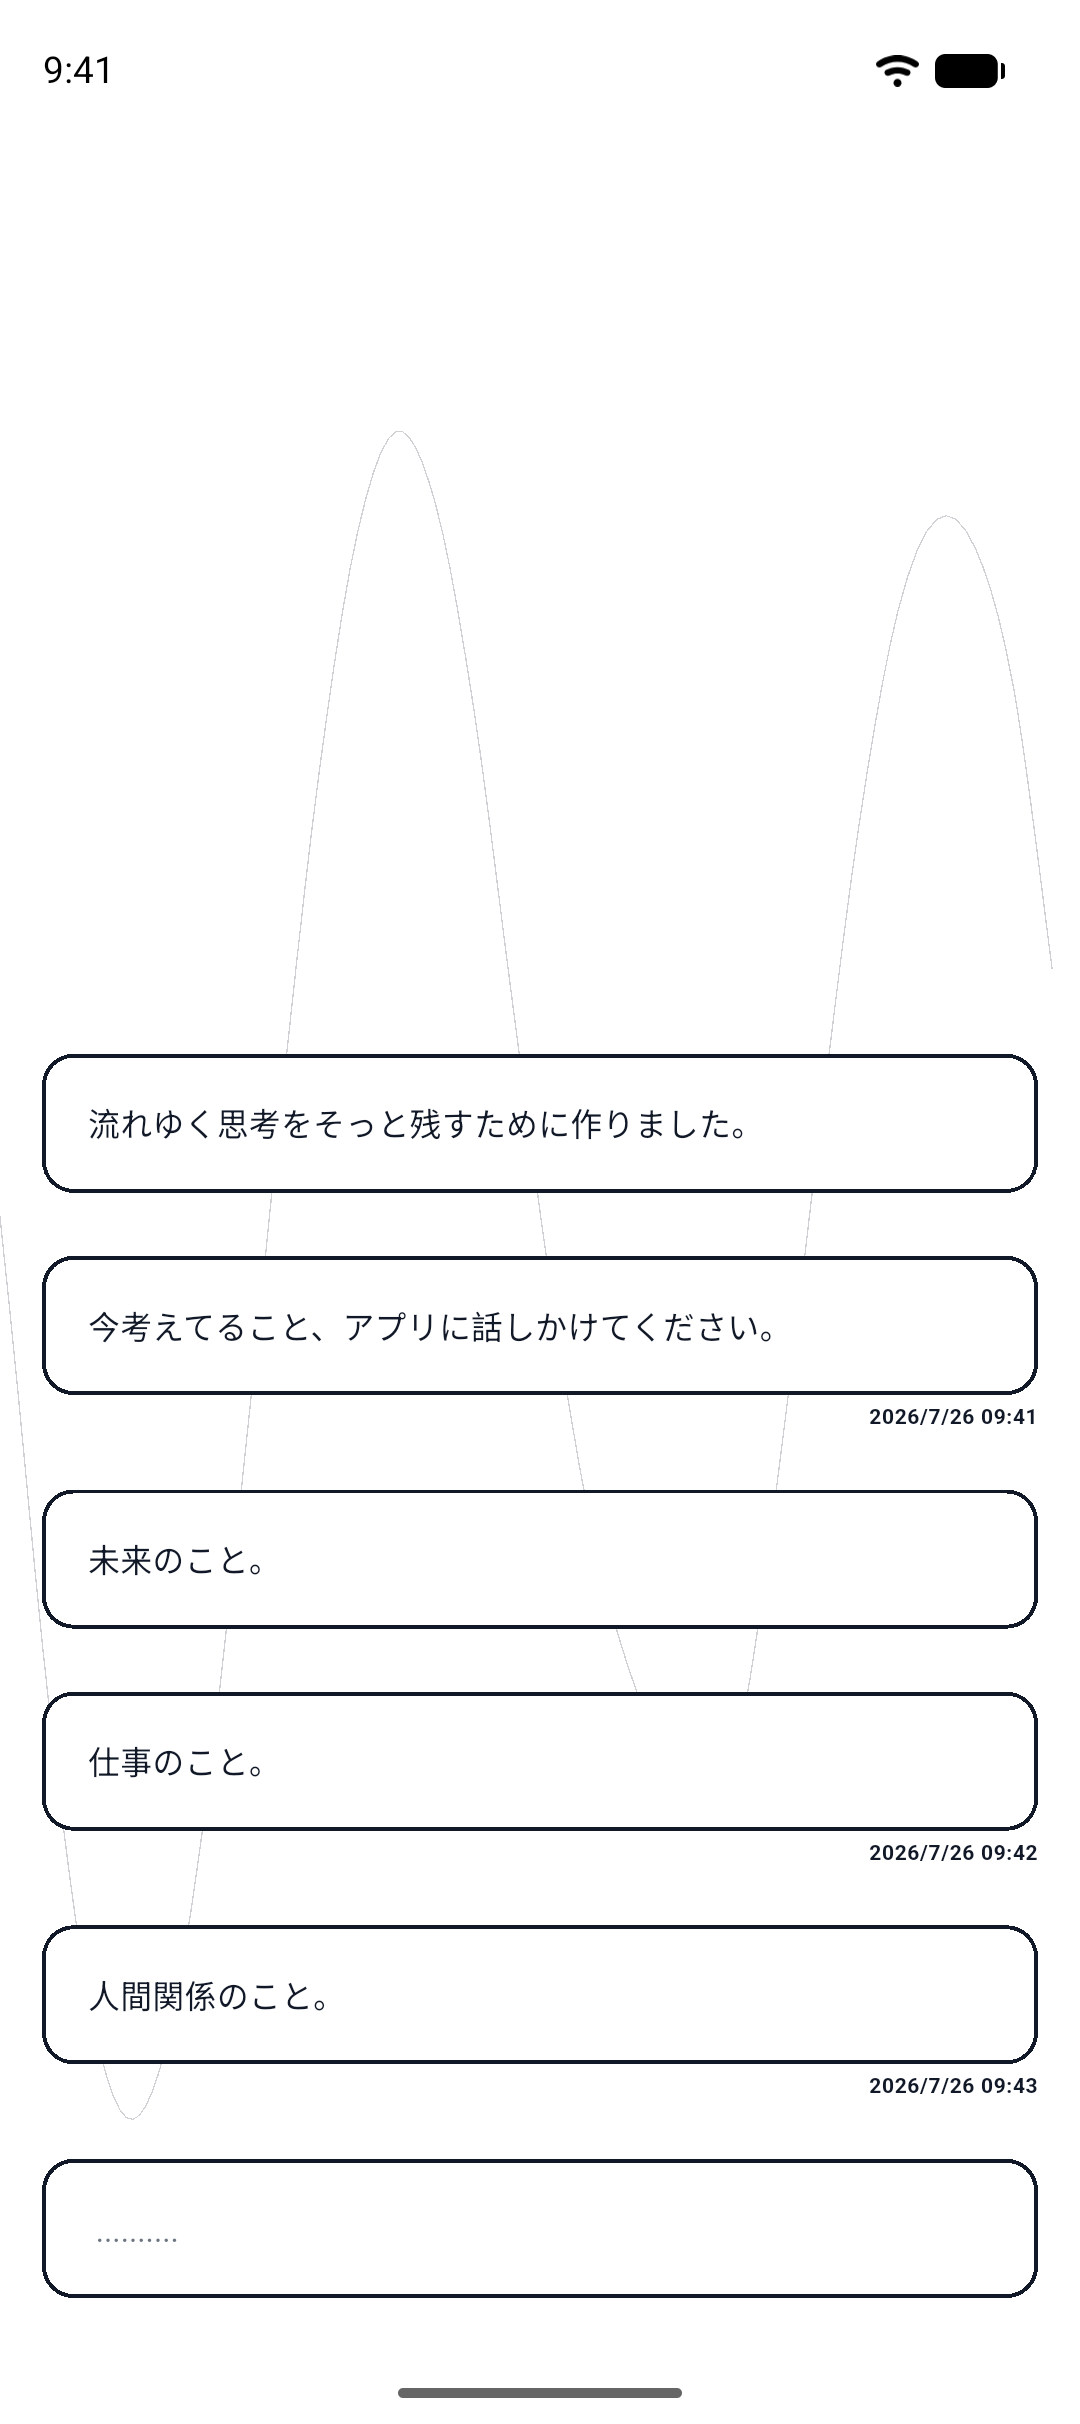
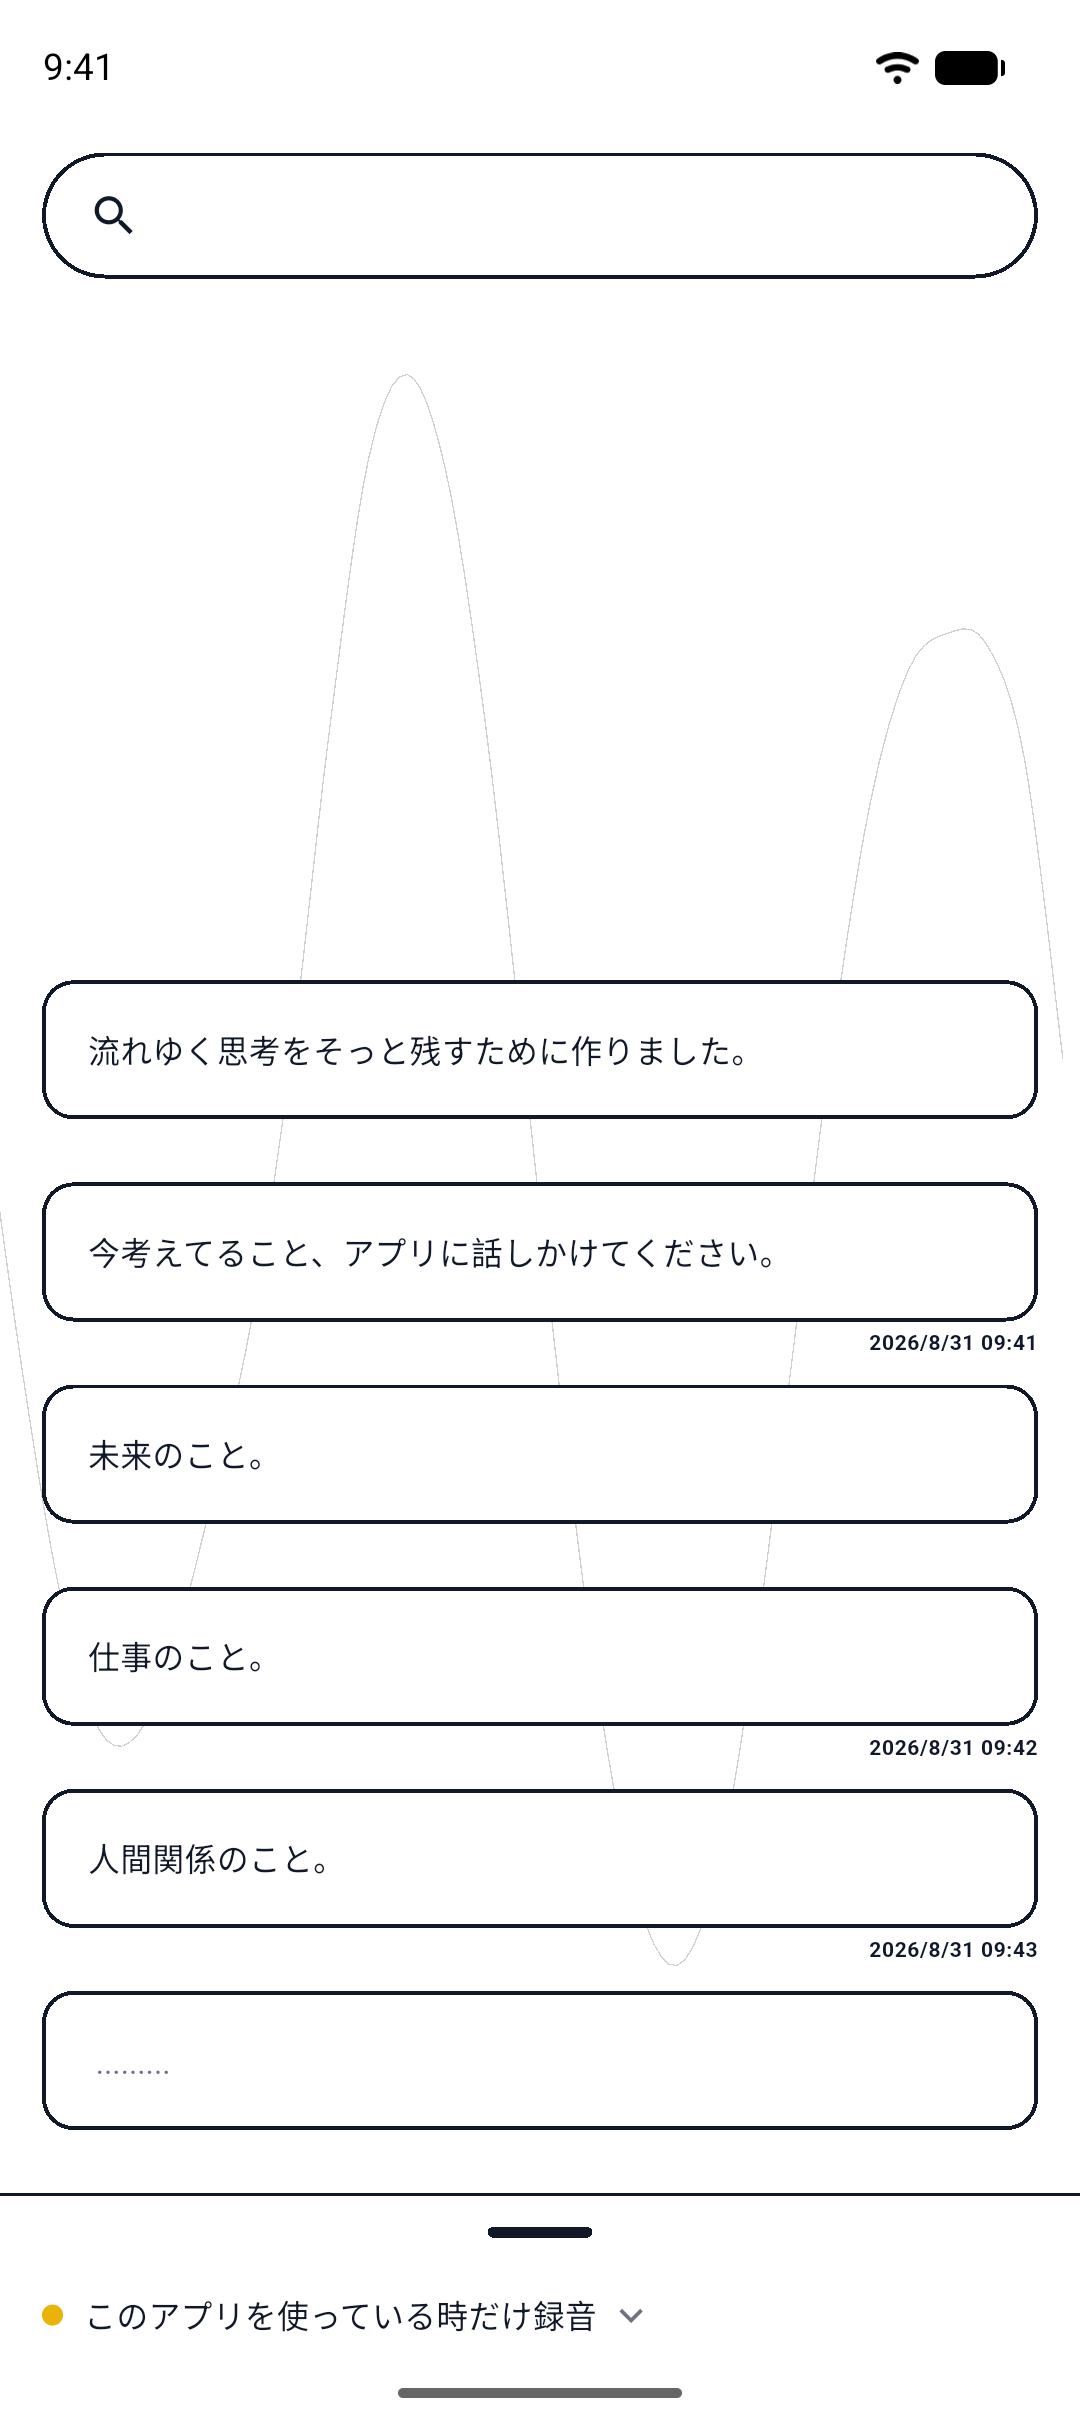
Prepare the store submission texts and retake the store screenshots with the current UI

diff --git a/notes/release/store_submission/background_recording_submission.md b/notes/release/store_submission/background_recording_submission.md
@@ -1,0 +1,136 @@
+# バックグラウンド録音のストア提出資料
+
+バックグラウンド録音を含むアプリとして提出するときに、両ストアの管理画面へ入力する内容をまとめた資料。文面はそのまま貼れる形にしてある（英文が正、日本語は対訳）。
+
+計画上の位置づけは `notes/background_recording/impl/phase3/step08_store_submission_materials.md`。
+
+---
+
+## Google Play — フォアグラウンドサービス申告
+
+場所: Play Console → App content（アプリのコンテンツ）→ Foreground service permissions。
+
+マージ後のマニフェストには FGS タイプが**2つ**入っているため、申告も2つ必要になる。
+
+| タイプ | 由来 |
+|---|---|
+| microphone | momeo 本体（flutter_foreground_task 経由） |
+| dataSync | Play Asset Delivery（モデル配布用の Google のライブラリが持ち込む `ExtractionForegroundService`） |
+
+### microphone の申告
+
+- ユースケース: 音声録音（voice recording）系の定義済み項目を選ぶ
+- 機能の説明:
+
+```text
+momeo is a voice memo app that turns spoken thoughts into text notes using fully on-device speech recognition. When the user explicitly enables "keep recording while using other apps" (off by default, guarded by a consent dialog), the app runs a microphone foreground service so it can keep capturing and transcribing the user's voice while they use other apps or the screen is off. A persistent notification with a stop button is shown the whole time, and audio never leaves the device.
+```
+
+（対訳: momeo は、話した思考をオンデバイス音声認識でテキストメモにする音声メモアプリ。ユーザーが「ほかのアプリを使っていても録音」を明示的に有効にしたとき（初期値は無効・同意ダイアログあり）だけ microphone タイプのフォアグラウンドサービスを動かし、他アプリの使用中や画面消灯中も録音と文字化を続ける。実行中は停止ボタン付きの常駐通知を出し続け、音声は端末の外に出ない。）
+
+- 中断された場合のユーザーへの影響:
+
+```text
+If the system defers or interrupts the service, speech spoken during that time is not captured, so those voice memos are permanently lost. Uninterrupted capture is the core value of the feature the user opted into.
+```
+
+（対訳: サービスが中断されると、その間の発話は取り込まれず、メモとして永久に失われる。途切れない取り込みがこの機能の価値そのもの。）
+
+- 実演動画: リンクを必ず添える（YouTube 限定公開で可）。**ユーザーが機能をトリガーする手順**が映っている必要があるので、次のシーン構成で撮る。
+
+```text
+1. リスニング画面 → 下端の帯をタップして選択肢を出す
+2. 「ほかのアプリを使っていても録音」をタップ → 開示ダイアログ → 有効にする
+3. ホームへ戻る → 通知シェードを開き、常駐通知（停止ボタン付き）を見せる
+4. 他のアプリの画面のまま、短い一文を話す
+5. momeo に戻る → 話した内容がメモとして増えている
+```
+
+- 動画リンク（アップ後にここへ記録する）: ＿＿＿＿＿＿＿＿
+
+### dataSync の申告
+
+- 機能の説明:
+
+```text
+This foreground service comes from the Google Play Asset Delivery library (com.google.android.play.core.assetpacks.ExtractionForegroundService). The app delivers its on-device speech-recognition model (~625 MB) as a fast-follow asset pack, and the library uses this service to extract the pack after download. The app's own code never starts a dataSync foreground service.
+```
+
+（対訳: このサービスは Play Asset Delivery のライブラリが持ち込むもの。momeo はオンデバイス音声認識モデル（約625MB）を fast-follow のアセットパックで配布しており、ダウンロード後の展開にライブラリがこのサービスを使う。アプリ自身のコードが dataSync のサービスを起動することはない。）
+
+- 中断された場合のユーザーへの影響:
+
+```text
+If extraction is interrupted, the speech-recognition model is not ready, and the app cannot transcribe until extraction completes on a later launch.
+```
+
+- 実演動画: 初回起動で準備ゲート（モデルの準備画面）が進む様子を撮る。
+
+---
+
+## Google Play — Data safety（データの安全性）
+
+- 「アプリは必須のユーザーデータタイプを収集または共有しますか？」→ **いいえ**
+- 根拠: Play の定義で「収集」は端末外への送信を指す。momeo はマイク音声・文字起こし・メモをすべて端末内で処理・保存し、送信しない。アカウント登録なし・解析 SDK なし・広告 SDK なし。`INTERNET` 権限の用途は Google Play からのモデル取得（Play Asset Delivery）のみで、ユーザーデータの送信はない。
+
+---
+
+## App Store — 審査メモ（App Review Information → Notes）
+
+`audio` バックグラウンドモードを「再生用」とみなされてリジェクトされた事例への先回りとして、提出のたびに次を貼る。
+
+```text
+momeo is a voice-first memo app. All speech recognition runs entirely on device (sherpa-onnx with a bundled model). Audio and transcripts never leave the device, and the app makes no network requests for recognition.
+
+About UIBackgroundModes "audio": the app uses it only to continue RECORDING (not playback) when the user explicitly turns on "keep recording while using other apps". This option is OFF by default, requires an explicit consent dialog, and can be turned off at any time from the same screen. While recording in the background, iOS shows the orange microphone indicator, and the app additionally shows a Live Activity on the Lock Screen with the app name and the number of memos captured.
+
+How to verify:
+1. Launch the app and grant microphone access.
+2. Tap the status band at the bottom of the listening screen, then choose the right-hand card ("ほかのアプリを使っていても録音") and confirm the consent dialog.
+3. Lock the screen and speak a short sentence.
+4. Wake the screen: a Live Activity "momeo — 音声を認識しています" is visible on the Lock Screen.
+5. Unlock and return to the app: the sentence appears as a new text memo.
+6. Switch back to the left-hand card: backgrounding the app now stops recording (the default behavior).
+```
+
+（要旨: すべてオンデバイス・外部送信なし。audio は再生ではなく録音の継続のためで、デフォルト OFF・同意ダイアログ・いつでも解除可。録音中はオレンジの点に加えて Live Activity を表示。確認手順つき。）
+
+---
+
+## App Store — App Privacy（プライバシーラベル）
+
+- 回答: **Data Not Collected**（データは収集していない）
+- 根拠: Apple の定義でも「収集」は端末外への送信を指す。momeo からデバイス外に出るデータはない。
+
+---
+
+## 掲載文・ポリシーとの整合
+
+| 項目 | 状態 |
+|---|---|
+| プライバシーポリシー（momeo.jp/privacy.html） | 更新済み（バックグラウンド録音・端末内保存のみ・外部送信なし → `notes/background_recording/impl/phase3/step07_update_wording_and_docs.md`） |
+| ストア掲載文（説明文） | リポジトリには未作成。起票時は本資料の機能説明をベースにし、「設定で有効にしたときだけバックグラウンドでも録音する」旨を本文に含めて実挙動と一致させる |
+| ストアのスクリーンショット（`notes/release/screenshots/`） | 現行 UI（検索フィールド・ボトムシート）入りで撮り直し済み（撮影はスクリプト。`scripts/take_ios_screenshots.sh` / `take_android_screenshots.sh`） |
+| Play のフィーチャーグラフィック | 未作成（バックグラウンド録音とは別件の宿題） |
+
+---
+
+## マニフェスト由来の権限と申告への影響
+
+マージ後のマニフェスト（debug ビルドで確認）に入る権限の由来一覧。審査や申告で聞かれたときの答え。
+
+| 権限 / 要素 | 由来 | 扱い |
+|---|---|---|
+| RECORD_AUDIO | momeo | マイク（実行時許可） |
+| FOREGROUND_SERVICE / FOREGROUND_SERVICE_MICROPHONE | momeo（flutter_foreground_task） | microphone の申告で説明 |
+| FOREGROUND_SERVICE_DATA_SYNC / dataSync のサービス | Play Asset Delivery | dataSync の申告で説明 |
+| POST_NOTIFICATIONS | momeo（常駐通知）と Play Asset Delivery | — |
+| RECEIVE_BOOT_COMPLETED | flutter_foreground_task の BootReceiver と Play Asset Delivery | **削らない**。Play Asset Delivery が再起動後のアセット展開の再開に使うため、削ると配布が壊れる恐れがある。flutter_foreground_task の「再起動でサービスを立て直す」機能は momeo では使っていない |
+| WAKE_LOCK | flutter_foreground_task と Play Asset Delivery | — |
+| INTERNET / ACCESS_NETWORK_STATE | Flutter / Play Asset Delivery | モデル取得のみ。ユーザーデータの送信なし |
+
+## 参考リンク
+
+- [フォアグラウンドサービスと全画面インテントの要件（Play Console ヘルプ）](https://support.google.com/googleplay/android-developer/answer/13392821)
+- [Foreground service types are required（Android Developers）](https://developer.android.com/about/versions/14/changes/fgs-types-required)
+- 規約調査の本体: `notes/background_recording/store_policy.md`

diff --git a/notes/background_recording/impl/phase3/step08_store_submission_materials.md b/notes/background_recording/impl/phase3/step08_store_submission_materials.md
@@ -22,7 +22,11 @@
 | App Store Connect | App Privacy（プライバシーラベル）の更新 |
 | 両方 | プライバシーポリシー（Step 7）とストア掲載文が実際の挙動と食い違っていないことの確認 |
 
-注意が2つある（→ `../../spike_findings.md` の「細かい発見」）。
+注意が2つある（→ `../../spike_findings.md` の「細かい発見」）。どちらも確認済みで、扱いは決めてある。
 
-- マニフェストには、既存の Play Asset Delivery（アプリ本体と別に大きなファイルを Play から配る仕組み。モデルの配布用に導入済み）由来で `dataSync` 型のサービスも混ざっている。Play の用途申告が microphone だけで済まない可能性がある
-- `flutter_foreground_task` は momeo が使わない権限（`RECEIVE_BOOT_COMPLETED` など）も持ち込む。審査で目を引くなら削ることをここで検討する
+- マニフェストには、既存の Play Asset Delivery（アプリ本体と別に大きなファイルを Play から配る仕組み。モデルの配布用に導入済み）由来で `dataSync` 型のサービスも混ざっている。マージ後のマニフェストで確認済みで、Play の用途申告は **microphone と dataSync の2つ**を出す
+- `flutter_foreground_task` は momeo が使わない権限（`RECEIVE_BOOT_COMPLETED` など）も持ち込む。ただしこの権限は Play Asset Delivery も再起動後のアセット展開の再開に使うため、**削らない**（削ると配布が壊れる恐れがある）
+
+## 提出資料
+
+管理画面へ入力する文面（英文＋対訳）・実演動画の撮影手順・権限の由来一覧は `notes/release/store_submission/background_recording_submission.md` にまとめてある。
